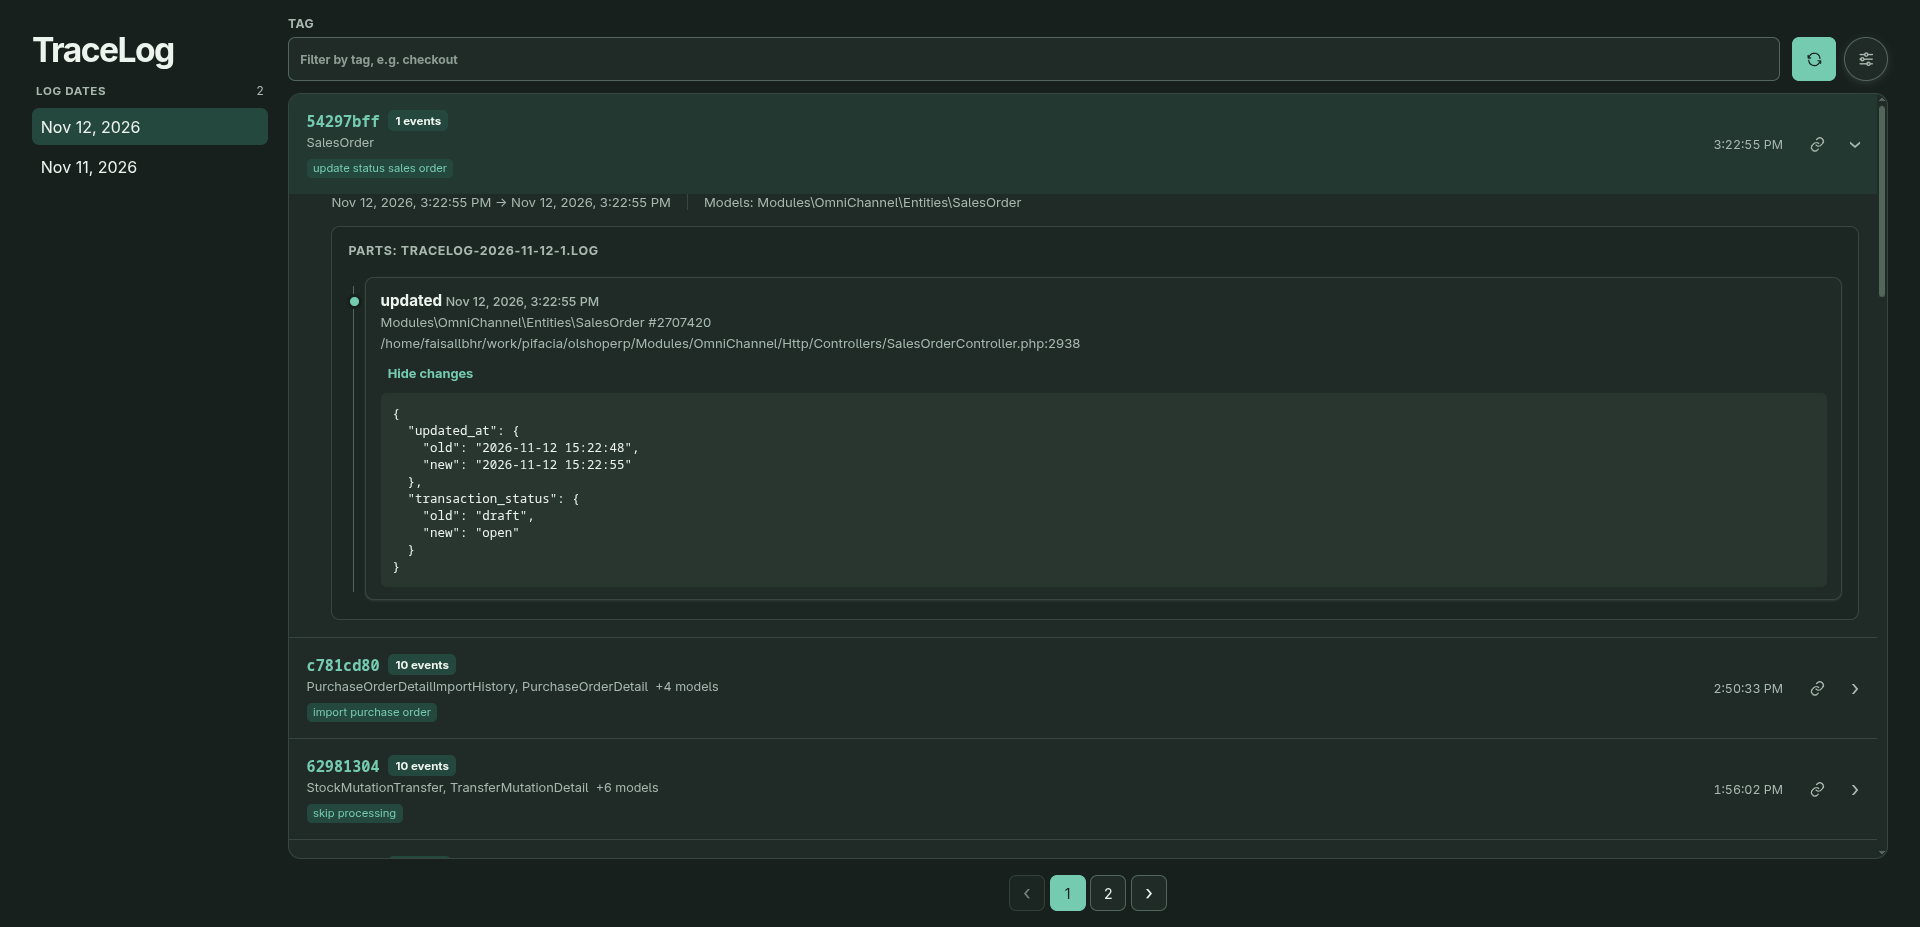
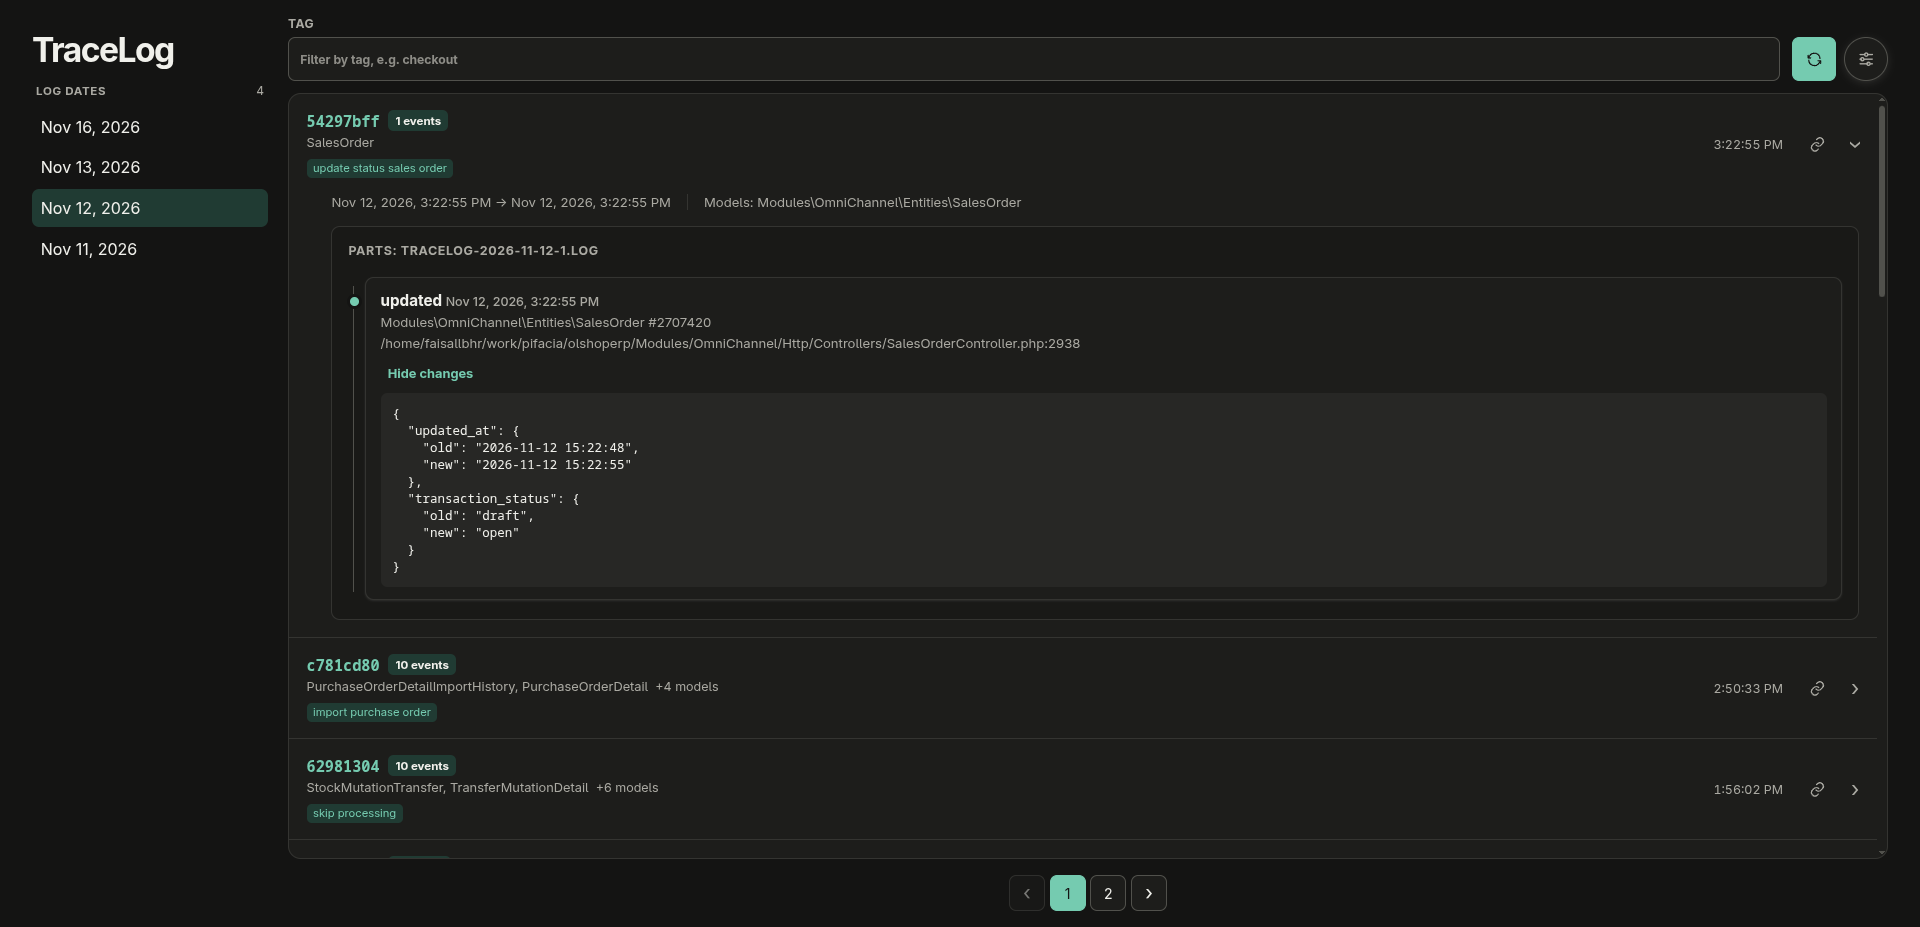
style(viewer): use neutral soft-black dark theme

Changed region(s): [[0.0, 0.0906, 1.0, 0.2718]]

diff --git a/resources/css/viewer.css b/resources/css/viewer.css
@@ -17,33 +17,33 @@
         @media (prefers-color-scheme: dark) {
             :root:not([data-theme="light"]) {
                 color-scheme: dark;
-                --paper: #17201d;
-                --surface: #202b27;
-                --ink: #edf3ed;
-                --muted: #a8b8af;
-                --line: #37463f;
-                --line-strong: #52665b;
+                --paper: #141413;
+                --surface: #1d1d1b;
+                --ink: #f0f0eb;
+                --muted: #aaa9a2;
+                --line: #343431;
+                --line-strong: #51514c;
                 --accent: #75cbb0;
-                --accent-soft: #24483e;
-                --accent-contrast: #17201d;
+                --accent-soft: #203b33;
+                --accent-contrast: #141413;
                 --focus: #f0ab67;
-                --code: #293630;
+                --code: #272725;
             }
         }
 
         :root[data-theme="dark"] {
             color-scheme: dark;
-            --paper: #17201d;
-            --surface: #202b27;
-            --ink: #edf3ed;
-            --muted: #a8b8af;
-            --line: #37463f;
-            --line-strong: #52665b;
+            --paper: #141413;
+            --surface: #1d1d1b;
+            --ink: #f0f0eb;
+            --muted: #aaa9a2;
+            --line: #343431;
+            --line-strong: #51514c;
             --accent: #75cbb0;
-            --accent-soft: #24483e;
-            --accent-contrast: #17201d;
+            --accent-soft: #203b33;
+            --accent-contrast: #141413;
             --focus: #f0ab67;
-            --code: #293630;
+            --code: #272725;
         }
 
         * {
